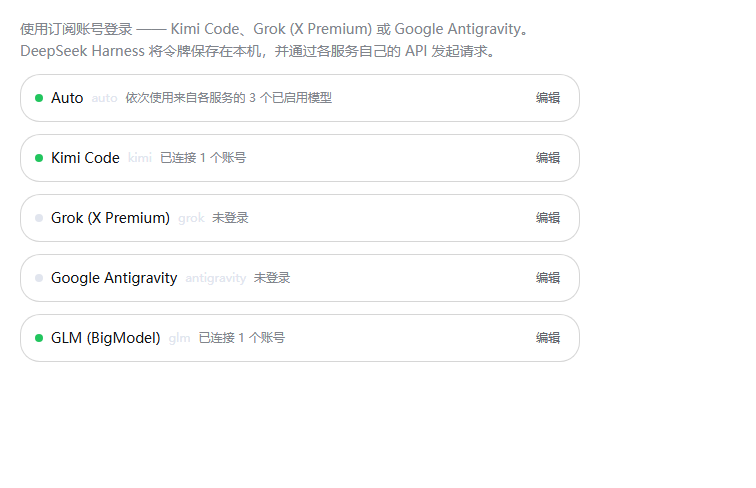
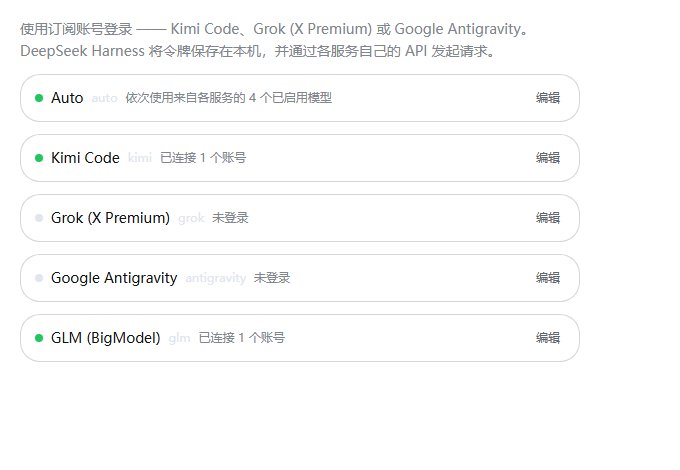
Hide a signed-out route's models, and let Auto span the whole roster
Two things the Settings page promised and did not deliver.

A route with no account still listed its models: the picker offered ids that could
only fail, and Auto queued them as fallbacks. listModels now answers with nothing
until the route holds a session, which removes them from the picker and from Auto in
one place, and the card hides its catalog rather than showing an empty state.

Auto also only knew the routes this plugin registered, so the built-in DeepSeek
providers and anything the user added were invisible to it. It now enumerates the
harness roster through an injected port - listProviders, listModels, resolveModelInfo
and the runtime's stream entry point, which is what selects the owning adapter - and
falls back to its own registry only when no runtime is present. A provider this plugin
does not own is dispatched through the harness; its own routes keep streaming through
their adapter directly.

313 tests pass; the folded-list screenshot is regenerated because Auto's summary line
now counts the built-in model too.

diff --git a/src/providers/auto.ts b/src/providers/auto.ts
@@ -83,12 +83,45 @@ function isCandidateFallbackWorthy(status: number): boolean {
   return status === 402 || status === 404 || status === 408 || status === 429 || status >= 500
 }
 
+/**
+ * The harness's own provider roster.
+ *
+ * `auto` spans everything the session can pick, not only the routes this plugin
+ * registered: the built-in DeepSeek providers and any provider the user added are
+ * models Auto is expected to fall back to. The runtime offers exactly the three
+ * facts that needs — which providers exist, what each one serves, and the call
+ * entry point that selects the owning adapter — so it is injected as a port rather
+ * than reached for directly.
+ */
+export interface AutoHost {
+  /** Every provider the harness serves, in picker order. */
+  providers(): readonly { id: string, name: string }[]
+  /** Models one provider currently offers. */
+  models(provider: string): Promise<readonly { id: string, name?: string }[]>
+  /** One model's context window, reasoning ladder and input kinds, when stated. */
+  resolve(provider: string, model: string): Promise<{
+    contextWindow?: number
+    reasoningEfforts?: readonly string[]
+    inputModalities?: readonly ModelModality[]
+  }>
+  /** Run one call, letting the harness select that provider's adapter. */
+  stream(options: GenerateOptions): AsyncIterable<StreamChunk>
+}
+
 /** Everything the `auto` route needs. */
 export interface AutoProviderOptions {
   /** Shared model preferences, where `auto`'s own order and switches live. */
   preferences: ModelPreferences
   /** Every other route, read per call so registration order stays free. */
   registry: SubscriptionRegistry
+  /**
+   * The harness's own roster, when the route is mounted in a running harness.
+   *
+   * Present, this is what `auto` enumerates — it already contains this plugin's
+   * routes as well, so enumerating both would list every model twice. Absent (a
+   * unit test with no runtime), the registry alone is used.
+   */
+  host?: AutoHost
   onWarn?: (message: string) => void
   /** Invoked when the list changed, so the picker re-queries. */
   onCatalogChanged?: () => void
@@ -168,21 +201,23 @@ export class AutoAdapter extends LlmAdapter {
     for (const [index, candidate] of chain.entries()) {
       const route = this.options.registry.get(candidate.provider)
       const next = chain[index + 1]
-      if (route === undefined) {
-        lastError = new LlmError(`Auto refers to the unknown provider ${candidate.provider}`, EMPTY_RESPONSE_CODE)
-        if (next === undefined) break
-        continue
-      }
       // A chain may advance only while nothing has been produced: once a chunk
       // has been yielded the turn belongs to that model, and a later failure is
       // reported rather than papered over by a second model's text.
       let produced = false
       try {
-        for await (const chunk of route.adapter.stream({
-          ...options,
-          provider: candidate.provider,
-          model: candidate.model,
-        })) {
+        // A route this plugin owns streams through its own adapter. Anything else
+        // — a built-in provider, a provider the user added — goes through the
+        // harness, which is the only thing that knows which adapter serves it.
+        const source = route !== undefined
+          ? route.adapter.stream({ ...options, provider: candidate.provider, model: candidate.model })
+          : this.options.host?.stream({ ...options, provider: candidate.provider, model: candidate.model })
+        if (source === undefined) {
+          lastError = new LlmError(`Auto refers to the unknown provider ${candidate.provider}`, EMPTY_RESPONSE_CODE)
+          if (next === undefined) break
+          continue
+        }
+        for await (const chunk of source) {
           produced = true
           yield chunk
         }
@@ -239,8 +274,44 @@ export class AutoAdapter extends LlmAdapter {
     return out
   }
 
-  /** Every model the other routes currently offer the picker. */
+  /**
+   * Every model the picker currently offers, from every provider.
+   *
+   * In a running harness that means the whole roster, which is where the built-in
+   * DeepSeek providers and any provider the user added come from. Without a host —
+   * a unit test — this plugin's own routes are the roster.
+   */
   private async candidates(): Promise<AutoCandidate[]> {
+    const host = this.options.host
+    if (host === undefined) return await this.registryCandidates()
+    const out: AutoCandidate[] = []
+    for (const entry of host.providers()) {
+      // Auto cannot chain to itself; that would be a loop, not a fallback.
+      if (entry.id === AUTO_PROVIDER_ID) continue
+      try {
+        for (const model of await host.models(entry.id)) {
+          const resolved = await host.resolve(entry.id, model.id)
+          out.push({
+            provider: entry.id,
+            model: model.id,
+            name: model.name ?? model.id,
+            contextWindow: resolved.contextWindow ?? AUTO_FALLBACK_CONTEXT_WINDOW,
+            ...resolved.reasoningEfforts === undefined || resolved.reasoningEfforts.length === 0
+              ? {}
+              : { reasoningEfforts: resolved.reasoningEfforts },
+            ...resolved.inputModalities === undefined ? {} : { inputModalities: resolved.inputModalities },
+          })
+        }
+      } catch (error: unknown) {
+        // One unreachable provider must not empty Auto: the others still stand in.
+        this.options.onWarn?.(`auto could not read ${entry.id}'s models (${errorChain(error)})`)
+      }
+    }
+    return out
+  }
+
+  /** The same list built from this plugin's own routes, for a host-less build. */
+  private async registryCandidates(): Promise<AutoCandidate[]> {
     const out: AutoCandidate[] = []
     for (const route of this.options.registry.all()) {
       if (route.id === AUTO_PROVIDER_ID) continue

diff --git a/test/auto.spec.ts b/test/auto.spec.ts
@@ -267,3 +267,92 @@ describe('the auto provider', () => {
     assert.equal(warnings.length, 1)
   })
 })
+
+describe('auto across the whole harness roster', () => {
+  /**
+   * A host port standing in for `ctx.llm`.
+   *
+   * Its roster is what the harness serves: the built-in providers, whatever the
+   * user added, and this plugin's own routes — which is why Auto must read from
+   * here rather than from a registry that only knows the last of those.
+   */
+  function withHost(): {
+    route: ProviderRoute
+    adapter: AutoAdapter
+    preferences: ModelPreferences
+    runs: { provider: string, model: string }[]
+    warnings: string[]
+  } {
+    const runs: { provider: string, model: string }[] = []
+    const warnings: string[] = []
+    const preferences = new ModelPreferences(path.join(directory, `host-${String(Math.random()).slice(2)}.json`))
+    const route = createAutoProvider({
+      preferences,
+      registry: new SubscriptionRegistry([]),
+      host: {
+        providers: () => [
+          { id: AUTO_PROVIDER_ID, name: 'Auto' },
+          { id: 'deepseek', name: 'DeepSeek' },
+          { id: 'huanling', name: 'huanling' },
+          { id: 'offline', name: 'Offline' },
+        ],
+        models: async (provider) => {
+          if (provider === 'offline') throw new Error('unreachable')
+          return provider === 'deepseek'
+            ? [{ id: 'deepseek-v4', name: 'DeepSeek V4' }]
+            : [{ id: 'custom-1', name: 'Custom One' }]
+        },
+        resolve: async (_provider, model) => ({
+          contextWindow: 128_000,
+          ...model === 'deepseek-v4' ? { reasoningEfforts: ['low', 'high'] } : {},
+        }),
+        stream: (options) => {
+          runs.push({ provider: options.provider, model: options.model })
+          return (async function* (): AsyncIterable<StreamChunk> {
+            yield { type: 'text-delta', text: 'ok' } as StreamChunk
+          })()
+        },
+      },
+      onWarn: (message) => { warnings.push(message) },
+    })
+    return { route, adapter: route.adapter as AutoAdapter, preferences, runs, warnings }
+  }
+
+  test('the chain spans every provider in the roster, and never itself', async () => {
+    const { adapter } = withHost()
+    const keys = (await adapter.chain()).map((candidate) => autoKey(candidate.provider, candidate.model))
+    assert.deepEqual(keys, ['deepseek/deepseek-v4', 'huanling/custom-1'])
+    // A provider Auto cannot read is reported, not fatal.
+    assert.ok(!keys.some((key) => key.startsWith('auto/')))
+  })
+
+  test('a provider that cannot be read is warned about and skipped', async () => {
+    const { adapter, warnings } = withHost()
+    await adapter.chain()
+    assert.equal(warnings.length, 1)
+    assert.match(warnings[0] ?? '', /offline/)
+  })
+
+  test('host models keep their declared metadata', async () => {
+    const { adapter } = withHost()
+    const chain = await adapter.chain()
+    const deepseek = chain.find((candidate) => candidate.provider === 'deepseek')
+    assert.equal(deepseek?.contextWindow, 128_000)
+    assert.deepEqual(deepseek?.reasoningEfforts, ['low', 'high'])
+  })
+
+  test('a call for a provider this plugin does not own goes through the harness', async () => {
+    const { adapter, runs } = withHost()
+    const chunks: StreamChunk[] = []
+    for await (const chunk of adapter.stream(call())) chunks.push(chunk)
+    assert.deepEqual(chunks.map((chunk) => chunk.type), ['text-delta'])
+    // Dispatched to the first candidate of the chain, by the harness.
+    assert.deepEqual(runs, [{ provider: 'deepseek', model: 'deepseek-v4' }])
+  })
+
+  test('the card lists the host providers rows too', async () => {
+    const { adapter } = withHost()
+    const ids = (await adapter.summaries()).map((model) => model.id)
+    assert.deepEqual(ids, ['deepseek/deepseek-v4', 'huanling/custom-1'])
+  })
+})

diff --git a/test/logged-out-models.spec.ts b/test/logged-out-models.spec.ts
@@ -1,0 +1,59 @@
+/**
+ * A route that is not signed in must not offer models.
+ *
+ * The picker and Auto both build their lists from `listModels`, so this is the one
+ * place that decides whether a signed-out route is visible to them at all. The
+ * Settings card hides its catalog on the same condition, from the other side.
+ *
+ * @module dsh-plugin-subscription-oauth/test/logged-out-models
+ */
+
+import assert from 'node:assert/strict'
+import { describe, test } from 'node:test'
+
+import { AntigravityAdapter } from '../src/providers/antigravity.js'
+import { GlmAdapter } from '../src/providers/glm.js'
+import { GrokAdapter } from '../src/providers/grok.js'
+import { KimiAdapter } from '../src/providers/kimi.js'
+
+/** A token manager for an account that holds no session. */
+const signedOut = { session: async () => undefined } as never
+
+/** A token manager for an account that does. */
+const signedIn = {
+  session: async () => ({
+    account: 'user-1',
+    session: { accessToken: 'token', expiresAt: Date.now() + 3_600_000 },
+  }),
+} as never
+
+describe('a signed-out route offers no models', () => {
+  test('every adapter lists nothing while signed out', async () => {
+    const adapters = [
+      new KimiAdapter({ tokens: signedOut, discovery: false } as never),
+      new GrokAdapter({ tokens: signedOut, discovery: false } as never),
+      new AntigravityAdapter({ tokens: signedOut, discovery: false } as never),
+      new GlmAdapter({ tokens: signedOut, discovery: false } as never),
+    ]
+    for (const adapter of adapters) {
+      // The guard runs before any catalog work, so a signed-out route never
+      // reaches the shipped list, discovery or the hand-added ids.
+      assert.deepEqual(
+        await adapter.listModels('any'),
+        [],
+        `${adapter.constructor.name} still listed models while signed out`,
+      )
+    }
+  })
+
+  test('a signed-in route still lists its catalog', async () => {
+    const adapter = new GlmAdapter({
+      tokens: signedIn,
+      discovery: false,
+      apiBase: 'https://open.bigmodel.cn/api/coding/paas/v4',
+    } as never)
+    const ids = (await adapter.listModels('glm')).map((model) => model.id)
+    assert.ok(ids.length > 0, 'a signed-in route must still offer its models')
+    assert.ok(ids.includes('glm-5.3'))
+  })
+})

diff --git a/src/index.ts b/src/index.ts
@@ -190,6 +190,28 @@ export function apply(ctx: Context, config: Config = {}): void {
     const auto = createAutoProvider({
       preferences,
       registry,
+      // Auto spans every provider the harness serves — the built-in DeepSeek
+      // routes and any provider the user adds included — so it is enumerated
+      // through the runtime rather than through this plugin's own registry. The
+      // runtime is read per call, so a provider that registers later (another
+      // plugin, a route the user configures) joins the chain without a restart.
+      host: {
+        providers: () => ctx.llm.listProviders().map((entry) => ({ id: entry.id, name: entry.name })),
+        models: (provider) => ctx.llm.listModels(provider),
+        resolve: async (provider, model) => {
+          const resolved = await ctx.llm.resolveModelInfo(provider, model)
+          return {
+            ...resolved.context?.contextWindow === undefined ? {} : { contextWindow: resolved.context.contextWindow },
+            ...resolved.reasoning === undefined
+              ? {}
+              : { reasoningEfforts: resolved.reasoning.efforts.map((effort) => String(effort.id)) },
+            ...resolved.inputModalities === undefined ? {} : { inputModalities: resolved.inputModalities },
+          }
+        },
+        // Dispatch through the harness, which selects the adapter that owns the
+        // provider. Auto's own adapter is never asked to guess.
+        stream: (options) => ctx.llm.stream(options),
+      },
       onCatalogChanged: () => { reannounce(AUTO_PROVIDER_ID) },
       onWarn,
     })

diff --git a/tools/preview-entry.tsx b/tools/preview-entry.tsx
@@ -199,6 +199,9 @@ function autoStatus(): ProviderStatus {
     credentialFile: '—',
     discovery: true,
     models: [
+      // Auto spans the whole harness roster, so a built-in provider's model sits in
+      // the same list as this plugin's own routes.
+      { id: 'deepseek/deepseek-v4', name: 'DeepSeek V4', description: 'deepseek · deepseek-v4', contextWindow: 131_072, visible: true, source: 'deepseek' },
       { id: 'kimi/kimi-for-coding', name: 'Kimi for Coding', description: 'kimi · kimi-for-coding', contextWindow: 1_048_576, visible: true, source: 'kimi' },
       { id: 'grok/grok-4.6', name: 'Grok 4.6', description: 'grok · grok-4.6', contextWindow: 256_000, visible: true, source: 'grok' },
       { id: 'antigravity/gemini-3-pro', name: 'Gemini 3 Pro', description: 'antigravity · gemini-3-pro', contextWindow: 1_048_576, visible: true, source: 'antigravity' },

diff --git a/test/kimi-adapter.spec.ts b/test/kimi-adapter.spec.ts
@@ -17,7 +17,7 @@ import { KIMI_CONTEXT_WINDOW, KIMI_LONG_CONTEXT_WINDOW } from '../src/constants.
 function tokenManager(resolve?: TokenManager<KimiSession>['resolve']): TokenManager<KimiSession> {
   const manager = {
     resolve: resolve ?? (async () => ({ account: 'user-1', accessToken: 'token', expiresAt: Date.now() + 60_000 })),
-    session: async () => undefined,
+    session: async () => ({ account: 'user-1', session: { accessToken: 'token', expiresAt: Date.now() + 60_000 } }),
     accounts: async () => ['user-1'],
     defaultAccount: async () => 'user-1',
   }

diff --git a/test/grok.spec.ts b/test/grok.spec.ts
@@ -37,7 +37,7 @@ function jwtWithClaims(claims: Record<string, unknown>): string {
 function tokenManager(resolve?: TokenManager<GrokSession>['resolve']): TokenManager<GrokSession> {
   const manager = {
     resolve: resolve ?? (async () => ({ account: 'user-1', accessToken: 'token', expiresAt: Date.now() + 60_000 })),
-    session: async () => undefined,
+    session: async () => ({ account: 'user-1', session: { accessToken: 'token', expiresAt: Date.now() + 60_000 } }),
     accounts: async () => ['user-1'],
     defaultAccount: async () => 'user-1',
   }

diff --git a/src/providers/antigravity.ts b/src/providers/antigravity.ts
@@ -513,6 +513,9 @@ export class AntigravityAdapter extends LlmAdapter {
   }
 
   override async listModels(_provider: string): Promise<readonly LlmModelInfo[]> {
+    // Nothing to offer without a signed-in account: a model that cannot be called
+    // must not appear in the picker, and Auto must not try it.
+    if (await this.options.tokens.session() === undefined) return []
     await this.syncUserModels()
     const hidden = await this.hidden()
     return resolveCatalog(this.catalog(), [], hidden).entries.map((entry) => ({

diff --git a/src/providers/glm.ts b/src/providers/glm.ts
@@ -312,6 +312,9 @@ export class GlmAdapter extends LlmAdapter {
   }
 
   override async listModels(_provider: string): Promise<readonly LlmModelInfo[]> {
+    // Nothing to offer without a signed-in account: a model that cannot be called
+    // must not appear in the picker, and Auto must not try it.
+    if (await this.options.tokens.session() === undefined) return []
     const hidden = await this.hidden()
     return resolveCatalog(this.catalog(), [], hidden).entries.map((entry) => ({
       provider: GLM_PROVIDER_ID,

diff --git a/src/providers/grok.ts b/src/providers/grok.ts
@@ -397,6 +397,9 @@ export class GrokAdapter extends LlmAdapter {
   }
 
   override async listModels(_provider: string): Promise<readonly LlmModelInfo[]> {
+    // Nothing to offer without a signed-in account: a model that cannot be called
+    // must not appear in the picker, and Auto must not try it.
+    if (await this.options.tokens.session() === undefined) return []
     await this.syncUserModels()
     const hidden = await this.hidden()
     return resolveCatalog(this.catalog(), [], hidden).entries.map((entry) => ({

diff --git a/src/providers/kimi.ts b/src/providers/kimi.ts
@@ -246,6 +246,9 @@ export class KimiAdapter extends LlmAdapter {
   }
 
   override async listModels(_provider: string): Promise<readonly LlmModelInfo[]> {
+    // Nothing to offer without a signed-in account: a model that cannot be called
+    // must not appear in the picker, and Auto must not try it.
+    if (await this.options.tokens.session() === undefined) return []
     await this.syncUserModels()
     const hidden = await this.hidden()
     return resolveCatalog(this.catalog(), [], hidden).entries.map((entry) => ({

diff --git a/src/client/SubscriptionsSection.tsx b/src/client/SubscriptionsSection.tsx
@@ -670,6 +670,9 @@ function ProviderCard(props: {
         </div>
       ))}
 
+      {/* A signed-out route has nothing to configure here, and listing models it
+          cannot call would only invite picker entries that fail. */}
+      {status.loggedIn && (
       <div style={styles.catalog}>
         <div style={styles.catalogHeader}>
           <button
@@ -838,6 +841,7 @@ function ProviderCard(props: {
           </div>
         )}
       </div>
+      )}
 
       <UsageBlock
         usage={status.usage ?? []}
